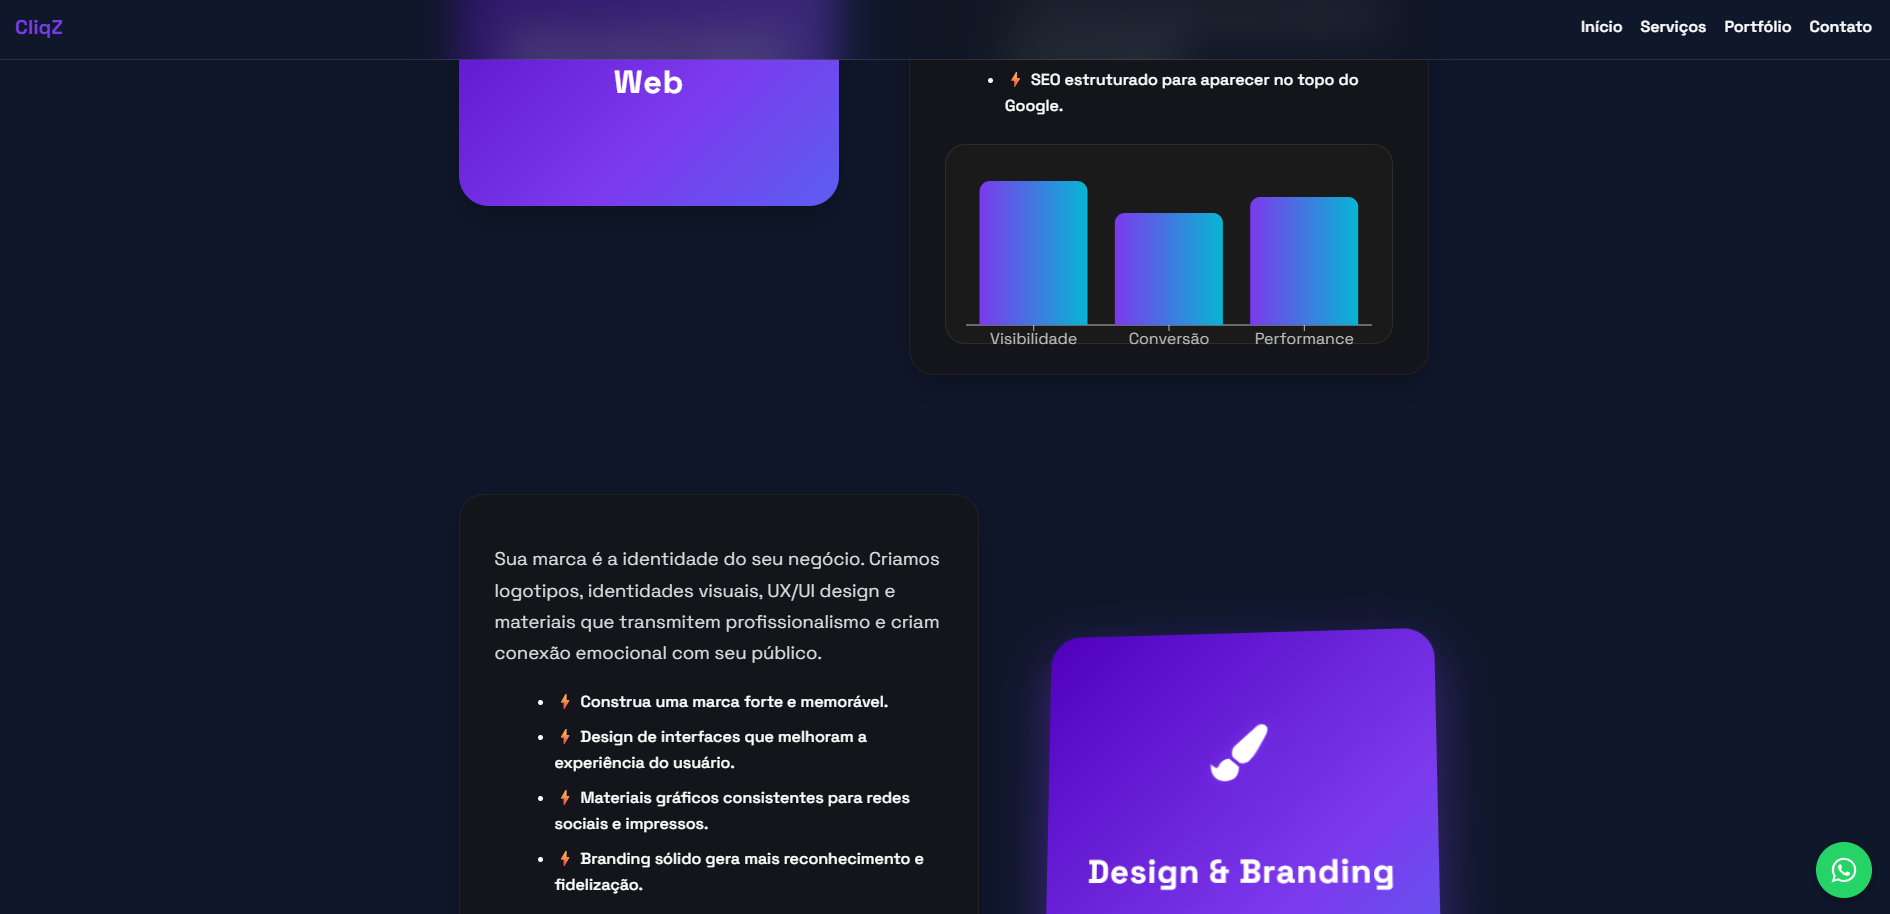
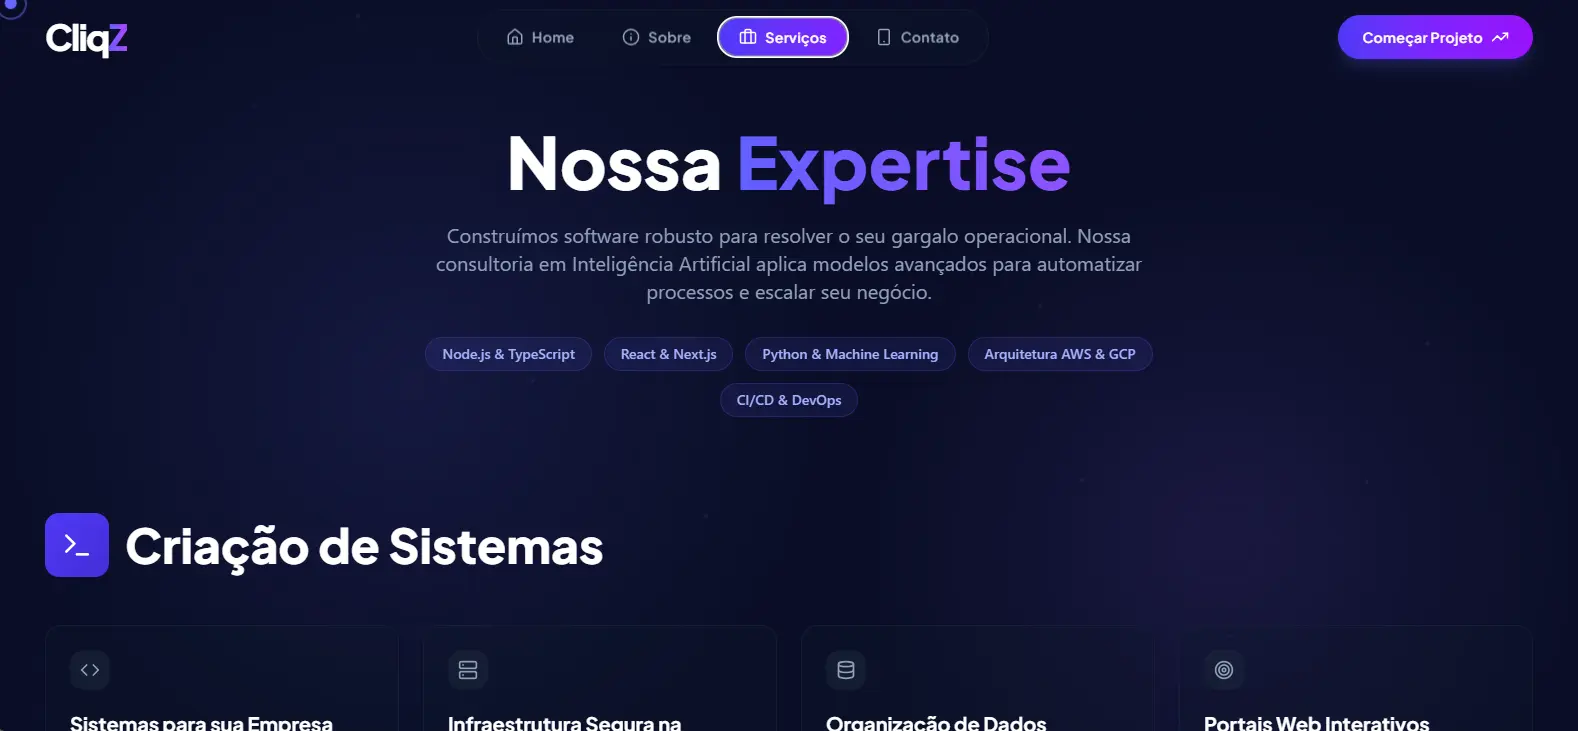
refactor: update CliqZ project details and descriptions in Portuguese locale

diff --git a/src/locales/pt.ts b/src/locales/pt.ts
@@ -407,32 +407,32 @@ export const translationsPT = {
       },
       
       {
-        title: "Site Agência CliqZ",
+        title: "CliqZ - Software & AI",
         shortDescription:
-          "Website institucional moderno e otimizado para uma agência de marketing e desenvolvimento digital.",
+          "Plataforma institucional para uma fábrica de software e consultoria em IA, focada em sistemas sob medida, arquitetura cloud e automações.",
         fullDescription:
-          "Desenvolvimento completo do site oficial da agência 'CliqZ', focado em marketing digital, branding e criação de soluções web. O objetivo do projeto foi criar uma identidade sólida com uma experiência envolvente, utilizando animações suaves, seções dinâmicas e uma performance alinhada às melhores práticas de SEO. Também inclui integrações com formulários automatizados, mensuração de leads e rastreamento de conversões via Google Analytics.",
+          "Desenvolvimento completo da nova plataforma da CliqZ, reposicionada como uma fábrica de software escalável e consultoria em Inteligência Artificial. O projeto foi projetado para transmitir autoridade técnica, destacando as principais especialidades da empresa: criação de sistemas web, integração de agentes autônomos de IA, infraestrutura Cloud-Native (AWS/GCP) e automações orientadas a eventos. A interface é focada na jornada B2B, apresentando métricas de impacto, metodologias ágeis de engenharia e diferenciais competitivos para conversão de leads corporativos.",
         features: [
-          "Landing page institucional responsiva e otimizada para SEO",
-          "Sessões dinâmicas para apresentação de serviços e portfólio",
-          "Integração com EmailJS para captação de leads",
-          "Microinterações e animações personalizadas utilizando Framer Motion",
-          "Integração completa com Google Analytics para métricas e conversões",
+          "Landing page de alta conversão focada no mercado corporativo (B2B)",
+          "Seções dinâmicas apresentando verticais de serviços (IA, Cloud, Sistemas, Automação)",
+          "Showcase interativo da stack tecnológica (React, Next.js, Node.js, Python)",
+          "Área de métricas de impacto (ROI, uptime, requisições) e diferenciais técnicos",
+          "Integração de formulários para captação de leads e agendamento com especialistas"
         ],
-        tags: ["React", "Styled Components", "Framer Motion"],
+        tags: ["Next.js", "TypeScript", "React", "Node.js", "Python", "Cloud"],
         technologies: {
-          frontend: "React, Styled Components, Framer Motion",
-          integration: "EmailJS, Google Analytics",
+          frontend: "React, Next.js, TypeScript",
+          integration: "OpenAI, Anthropic, n8n, AWS, GCP"
         },
-        images: ["../assets/cliqz.webp", "../assets/cliqz2.webp"],
+        images: ["../assets/cliqz-software1.webp", "../assets/cliqz-software2.webp"],
         githubUrlFront: "https://github.com/vLecaBR/CliqZ",
         githubUrlBack: null,
         liveUrl: "https://cliqz.com.br",
         hosting: {
           frontend: "Vercel",
-          backend: null,
-        },
-      },
+          backend: "AWS"
+        }
+      }
     ],
   },
   